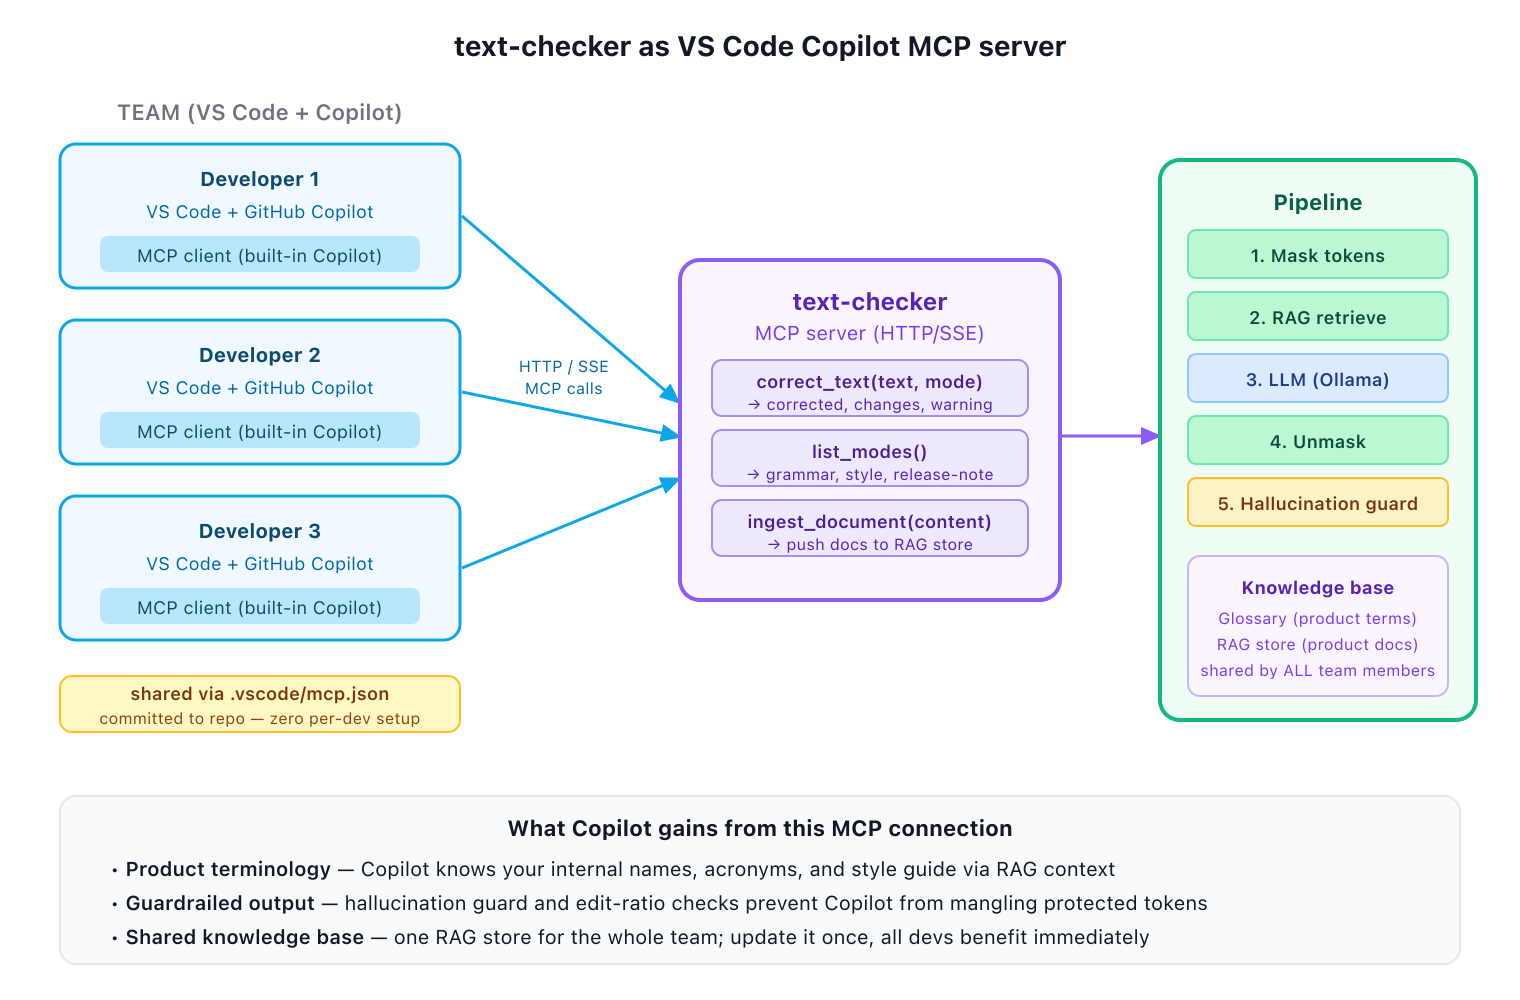
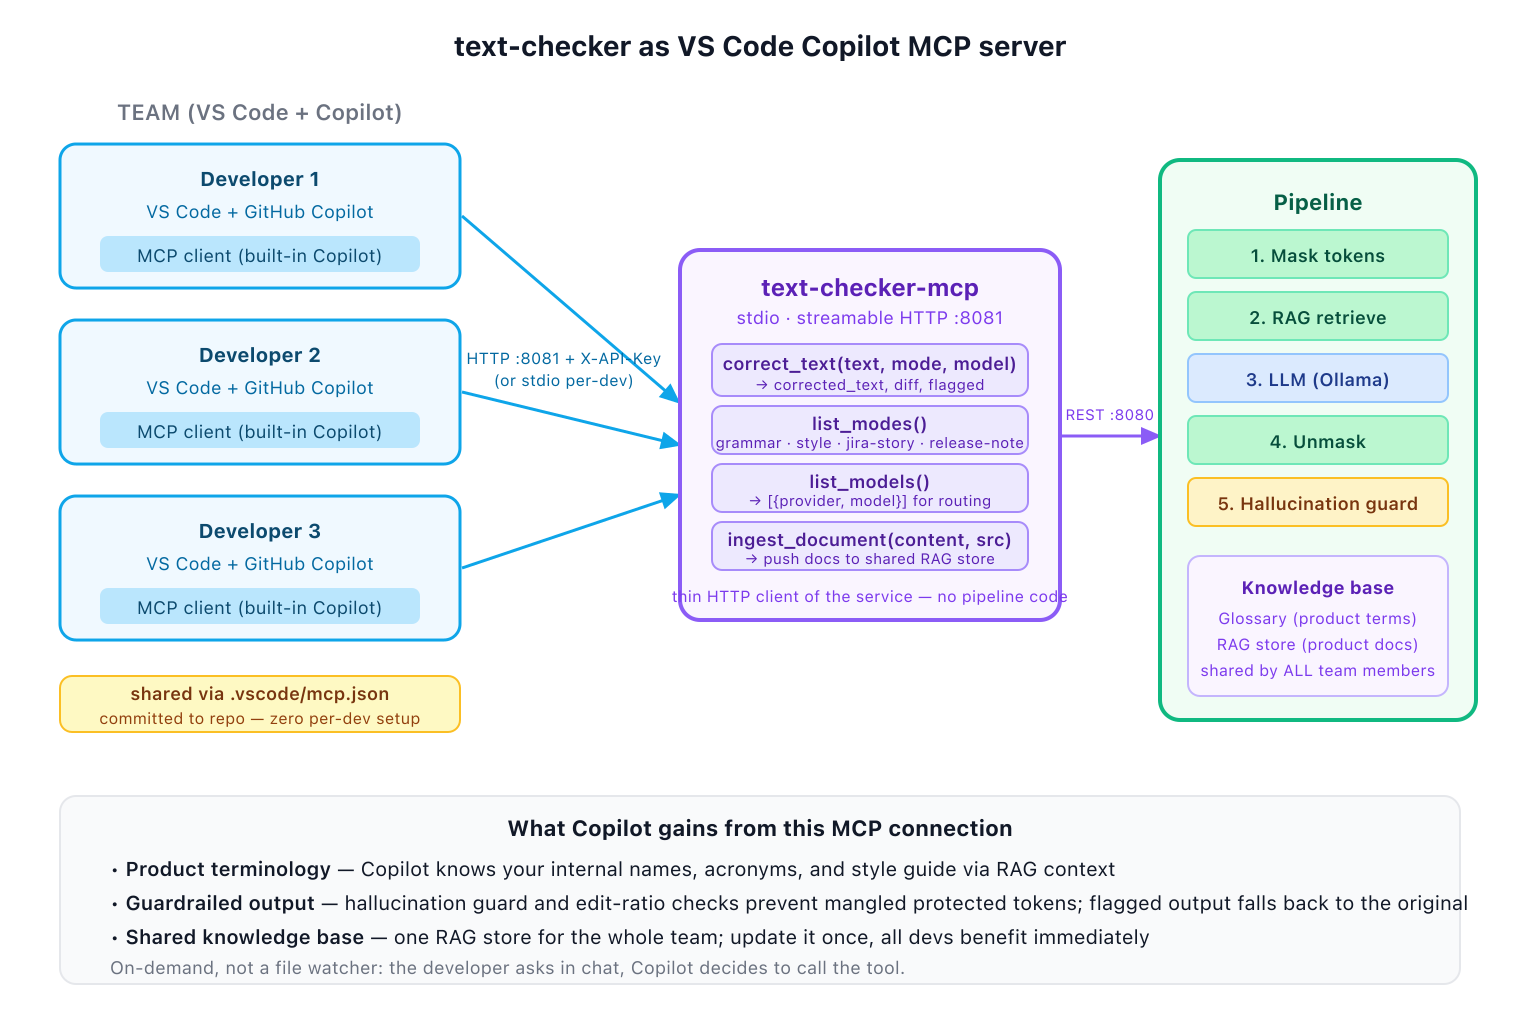
Accuracy pass on diagrams/docs + new all-in-one marketing diagram
concepts.md was partly written before the MCP/routing work shipped and
still described the speculative design. Fixed against the actual code:

- Response fields: corrected_text/diff/flagged (was corrected/changes/
  warning) in every flow diagram and the tools table
- MCP config: env vars TEXT_CHECKER_URL/TEXT_CHECKER_API_KEY (the
  --api-url flag never existed); HTTP transport shown with required
  X-API-Key and fail-closed note; .vscode/mcp.json sample now matches
  the committed file (headers + input prompt)
- Tools: list_models added everywhere (4 tools, not 3); real return
  shapes; transport table shows `text-checker-mcp --http` (the old
  uvicorn command pointed at an app attribute that doesn't exist)
- CI scenario: text-checker-check CLI with exit codes (was raw curl)
- GitHub Actions removed from the MCP hub diagram — CI calls the REST
  API directly, no MCP involved
- RAG coverage: style + jira-story + release-note (jira-story was
  missing); chunking numbers match the real chunker (1500 chars /
  200 overlap, 768-dim embeddings); rag CLI command fixed (module
  path + required --source)
- Removed stale "MCP not yet implemented" bullet that contradicted
  the shipped state; "What gets built" -> "What shipped"

Diagrams:
- vscode-mcp-integration.png regenerated: 4 tools with real signatures,
  all 4 modes, transport + auth labels, thin-client note
- NEW editright-architecture.png: single marketing diagram showing all
[…]

diff --git a/docs/concepts.md b/docs/concepts.md
@@ -16,7 +16,7 @@ Key constraints:
 - **No knowledge of your private docs** — it has never seen your style guide, product terminology, or internal naming conventions.
 - **Can hallucinate** — it generates plausible-sounding text even when it doesn't actually know the answer.
 
-**In text-checker:** [Ollama](https://ollama.ai) runs the model locally (default: `qwen2.5:7b`). The pipeline sends a structured prompt and the model returns corrected text. The hallucination guard and edit-ratio check exist precisely because the LLM can get things wrong.
+**In text-checker:** [Ollama](https://ollama.ai) runs the model locally (default: `qwen2.5:7b-instruct`). The pipeline sends a structured prompt and the model returns corrected text. The hallucination guard and edit-ratio check exist precisely because the LLM can get things wrong.
 
 ---
 
@@ -27,11 +27,12 @@ Key constraints:
 ### Phase 1 — Ingest (offline, one-time or periodic)
 
 ```
-Your docs (PDFs, markdown, plain text)
+Your docs (PDFs, markdown, HTML, plain text)
    ↓
-Split into overlapping chunks (~500 tokens each)
+Split into overlapping chunks (up to ~1500 chars, 200-char overlap, section-aware)
    ↓
-Each chunk → embedding model → vector (list of ~1536 numbers capturing meaning)
+Each chunk → embedding model → vector (hundreds of numbers capturing meaning;
+                                        768 dims for nomic-embed-text)
    ↓
 Stored in a vector database (Chroma in text-checker, at ./data/rag/)
 ```
@@ -39,7 +40,12 @@ Stored in a vector database (Chroma in text-checker, at ./data/rag/)
 This is called **ingestion** (also called indexing or training the RAG). You run it once when your docs change.
 
 ```bash
-python -m text_checker.rag.cli ingest path/to/your/docs/
+# local store (dev)
+python -m text_checker.rag ingest path/to/your/docs/ --source product-docs
+
+# against a running server (production — see README "Remote ingestion")
+python -m text_checker.rag ingest path/to/your/docs/ --source product-docs \
+  --server http://localhost:8080 --api-key <key>
 ```
 
 ### Phase 2 — Retrieve + Augment (per request, automatic)
@@ -67,7 +73,7 @@ The LLM never sees your whole document library — only the 3–5 chunks most re
 | Cost | Cheap — just a vector search | Expensive GPU compute |
 | Best for | Factual grounding, up-to-date knowledge | Changing the model's style or behavior |
 
-**In text-checker:** RAG is active for `release-note` and `style` modes (skipped for `grammar` — grammar is language-universal, no product context needed). The retrieved chunks ground the model in your product's specific terminology, so it doesn't invent names or rewrite technical terms.
+**In text-checker:** RAG is active for `style`, `jira-story`, and `release-note` modes (skipped for `grammar` by default — grammar is language-universal, no product context needed; the skip list is configurable via `RAG_SKIP_MODES`). The retrieved chunks ground the model in your product's specific terminology, so it doesn't invent names or rewrite technical terms.
 
 Relevance is measured by a similarity score (0–1). Only chunks scoring above `RAG_MIN_SCORE` (default `0.50`) are injected. You can tune this threshold based on the `rag_retrieval_score` Prometheus histogram.
 
@@ -127,21 +133,23 @@ See [ADR-0015](decisions/0015-mcp-server.md) for the design rationale and [Jira 
 #### text-checker as an MCP hub
 
 ```
-                        ┌─────────────────────────────────┐
-                        │     text-checker MCP server      │
-                        │                                  │
-   Claude Code ─stdio──▶│  correct_text(text, mode)       │
-                        │  list_modes()                    │──▶ /v1/correct (HTTP)
-   Jira Bot ───HTTP────▶│  ingest_document(content, src)  │
-                        │                                  │──▶ RAG ingest pipeline
-   GitHub Action ─HTTP─▶│                                  │
-                        └─────────────────────────────────┘
-                                      │
-                              All guardrails apply:
-                              mask → RAG → LLM → guard
+                            ┌──────────────────────────────────┐
+                            │      text-checker MCP server     │
+                            │                                  │
+   VS Code Copilot ─stdio──▶│  correct_text(text, mode, model) │──▶ POST /v1/correct
+   Claude Code ─────stdio──▶│  list_modes()                    │──▶ GET  /v1/modes
+                            │  list_models()                   │──▶ GET  /v1/models
+   Jira Bot ──HTTP:8081────▶│  ingest_document(content, src)   │──▶ POST /v1/rag/ingest
+                            └──────────────────────────────────┘
+                                          │
+                                  All guardrails apply:
+                                  mask → RAG → LLM → guard
+
+   GitHub Actions / CI ──── text-checker-check CLI ──▶ POST /v1/correct  (no MCP —
+                                                        plain HTTP, exit codes for CI)
 ```
 
-The MCP server is a thin wrapper over the existing HTTP API. All pipeline guardrails — masking, hallucination guard, edit-ratio — run as normal. MCP just provides the standard plug.
+The MCP server is a thin wrapper over the existing HTTP API. All pipeline guardrails — masking, hallucination guard, edit-ratio — run as normal. MCP just provides the standard plug. CI pipelines skip MCP entirely and use the `text-checker-check` CLI against the REST API — MCP adds nothing for a non-LLM caller.
 
 #### Integration scenario 1 — Claude Code / IDE linter
 
@@ -155,17 +163,20 @@ Claude Code (MCP client)
 text-checker MCP server (stdio)
         ↓  POST /v1/correct
 text-checker pipeline (mask → RAG → LLM → guard)
-        ↓  { corrected, changes, warning }
+        ↓  { corrected_text, diff, flagged }
 Claude Code shows inline diff
 ```
 
-Config: one entry in `.claude/settings.json`:
+Config: one entry in `.claude/settings.json` (the MCP server is configured via env vars, not flags):
 ```json
 {
   "mcpServers": {
     "text-checker": {
       "command": "text-checker-mcp",
-      "args": ["--api-url", "http://localhost:8080"]
+      "env": {
+        "TEXT_CHECKER_URL": "http://localhost:8080",
+        "TEXT_CHECKER_API_KEY": "<your-key>"
+      }
     }
   }
 }
@@ -182,7 +193,7 @@ Jira Bot (Python / Node)
         ↓  MCP tool call: correct_text(ticket.description, "release-note")
 text-checker MCP server (HTTP transport)
         ↓  pipeline runs
-        ↓  { corrected, changes }
+        ↓  { corrected_text, diff, flagged }
 Jira Bot → POST comment with corrected text
         or → PATCH ticket description
 ```
@@ -191,37 +202,38 @@ Value: release notes are consistent and style-guide-compliant before they ever r
 
 #### Integration scenario 3 — GitHub Actions CI linter
 
-On every pull request, a GitHub Actions workflow calls text-checker to lint the PR description and commit messages. If the service returns `warning: true`, the check fails and the diff is posted as a review comment.
+On every pull request, a GitHub Actions workflow lints changed release-note files with the `text-checker-check` CLI. If the hallucination guard flags a file and `--fail-on-flagged` is set, the check fails and blocks the merge.
 
 ```
-PR opened / updated
+PR opened / updated (release-notes/**.md changed)
         ↓  trigger: pull_request
 GitHub Actions runner
-        ↓  curl POST /v1/correct  { text: pr.body, mode: "style" }
-text-checker HTTP API
-        ↓  { corrected, changes, warning }
-        if warning → gh pr review --comment (posts diff)
-        if warning → exit 1 (blocks merge)
+        ↓  text-checker-check <file> --mode release-note --fail-on-flagged --diff
+text-checker HTTP API  (POST /v1/correct)
+        ↓  { corrected_text, diff, flagged }
+        if flagged → exit 1 (check fails, blocks merge)
+        else       → exit 0
 ```
 
-This integration uses the HTTP API directly (no MCP client needed) since Actions runners are ephemeral and stdio transport is impractical there.
+This integration uses the HTTP API directly (no MCP client needed) since Actions runners are ephemeral and there's no LLM in the loop to discover tools. The reference workflow lives at [`deploy/github-actions/lint-release-notes.yml`](../deploy/github-actions/lint-release-notes.yml).
 
 #### Transport: stdio vs HTTP
 
 | Transport | Use case | How to run |
 |---|---|---|
-| **stdio** | Claude Code, local IDE plugins | `text-checker-mcp` (process started by the MCP client) |
-| **HTTP (SSE)** | Jira Bot, remote agents, multi-user | `uvicorn text_checker.mcp_server:app --port 8081` |
+| **stdio** | VS Code Copilot Chat, Claude Code, local IDE plugins | `text-checker-mcp` (process started by the MCP client; config via `TEXT_CHECKER_URL` / `TEXT_CHECKER_API_KEY` env) |
+| **Streamable HTTP** | Jira Bot, remote agents, multi-user (port 8081) | `MCP_API_KEY=<key> text-checker-mcp --http` — requires `X-API-Key`, fails closed without a configured key |
 
 #### Tools exposed
 
 | Tool | Inputs | Returns |
 |---|---|---|
-| `correct_text` | `text: str`, `mode: str` | `corrected`, `changes[]`, `warning` |
-| `list_modes` | — | `[{name, description, rag_enabled}]` |
-| `ingest_document` | `content: str`, `source: str` | `chunks_indexed: int` |
+| `correct_text` | `text: str`, `mode: str`, `model: str \| None` | full `/v1/correct` response: `corrected_text`, `diff[]`, `flagged`, `flag_reason`, `rag_context_used[]`, `metrics` |
+| `list_modes` | — | `["grammar", "style", "jira-story", "release-note"]` |
+| `list_models` | — | `[{provider, model}]` — round-trip any entry back as `provider:model` in `correct_text` |
+| `ingest_document` | `content: str`, `source: str`, `section: str \| None` | `{source, chunks_indexed}` |
 
-`ingest_document` lets a Jira Bot or CI step push new product docs into the RAG store at runtime — no manual CLI step required.
+`ingest_document` lets a Jira Bot or a developer in chat push new product docs into the shared RAG store at runtime — no shell access to the server required.
 
 ---
 
@@ -256,7 +268,7 @@ text-checker MCP server (HTTP/SSE, shared team instance)
          ↓
 Full pipeline: mask → RAG retrieve → LLM → unmask → hallucination guard
          ↓
-{ corrected, changes: [...], warning: false }
+{ corrected_text, diff: [...], flagged: false }
          ↓
 Copilot presents corrected text + diff in the chat panel
 ```
@@ -266,16 +278,27 @@ Copilot presents corrected text + diff in the chat panel
 Commit a single file to the repo and every team member gets the MCP connection automatically when they open the project in VS Code (requires VS Code 1.99+ and GitHub Copilot extension):
 
 ```json
-// .vscode/mcp.json  ← commit this to the repo
+// .vscode/mcp.json  ← commit this to the repo (the real file is already in this repo)
 {
   "servers": {
     "text-checker": {
       "type": "http",
-      "url": "http://your-shared-server:8081/mcp"
+      "url": "http://your-shared-server:8081/mcp",
+      "headers": { "X-API-Key": "${input:textCheckerMcpKey}" }
     }
-  }
+  },
+  "inputs": [
+    {
+      "id": "textCheckerMcpKey",
+      "type": "promptString",
+      "description": "text-checker MCP API key",
+      "password": true
+    }
+  ]
 }
 ```
+
+The `X-API-Key` header is required — the MCP HTTP transport rejects unauthenticated requests (and fails closed if the server itself has no key configured). The `${input:...}` prompt means each developer supplies the key locally; it is never committed.
 
 The text-checker service runs on a shared host (same machine as today, or a team server). All team members' Copilot instances point to the same MCP server, which means they all share the same RAG knowledge base — update the product docs once, every developer benefits immediately.
 
@@ -299,6 +322,7 @@ The text-checker service runs on a shared host (same machine as today, or a team
          │   text-checker MCP server   │
          │   correct_text(text, mode)  │
          │   list_modes()              │
+         │   list_models()             │
          │   ingest_document(content)  │
          └──────────────┬──────────────┘
                         │
@@ -377,13 +401,13 @@ If you want automatic on-save linting (like ESLint), that requires a separate VS
 
 Start with MCP — it covers the high-value cases (release notes, PR descriptions, commit messages) with minimal build effort.
 
-### What gets built (tasks #26 and #27)
+### What shipped (tasks #26 and #27 — done)
 
 **#26 — MCP server core** (`src/text_checker/mcp_server.py`)
-Thin FastMCP wrapper over the existing HTTP API. Exposes `correct_text`, `list_modes`, `ingest_document`. Runs as a separate process on the same host, HTTP/SSE transport on port 8081.
+Thin FastMCP wrapper over the existing HTTP API. Exposes `correct_text`, `list_modes`, `list_models`, `ingest_document`. Runs as a separate process, stdio by default or streamable HTTP on port 8081 (`--http`), with fail-closed `X-API-Key` auth. See ADR-0015.
 
 **#27 — VS Code integration**
-`.vscode/mcp.json` committed to repo, usage examples in README, end-to-end test with Copilot Chat.
+`.vscode/mcp.json` committed to this repo; usage examples in the README ("Use from VS Code Copilot Chat").
 
 ---
 
@@ -411,7 +435,7 @@ POST /v1/correct
 
 - **LLM** does the reasoning and text generation (step 3).
 - **RAG** provides the product-specific context that makes the LLM's output accurate for your domain (step 2).
-- **MCP** is the future integration layer that will let other Claude-based tools call text-checker as a first-class tool (not yet implemented).
+- **MCP** is the integration layer (shipped — ADR-0015) that lets MCP clients like VS Code Copilot Chat and Claude Code call text-checker as a first-class tool. text-checker implements the server side only; the pipeline itself never calls out to MCP tools.
 
 The masking, hallucination guard, and edit-ratio thresholds are text-checker's own guardrails — the pipeline-level safety layer that protects against the LLM's inherent tendency to hallucinate or over-edit.
 

diff --git a/docs/product-overview.md b/docs/product-overview.md
@@ -32,7 +32,9 @@ Editright is an internal service that corrects grammar, style, and release notes
 
 ## Where it fits
 
-![Editright ecosystem: RAG, MCP, LLM, and where the service sits](images/rag-mcp-llm-overview.png)
+![Editright: all use cases, interfaces, and full architecture on one page](images/editright-architecture.png)
+
+<sub>Deep-dive version of the concepts: [RAG / MCP / LLM overview](images/rag-mcp-llm-overview.png)</sub>
 
 | Consumer | How it connects | Typical use |
 |---|---|---|
